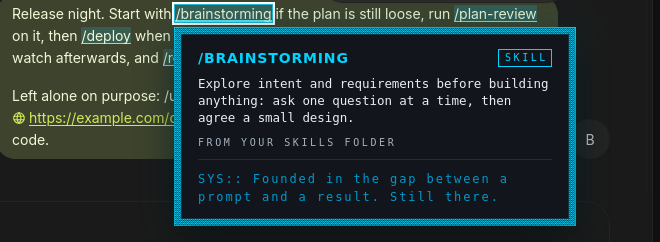
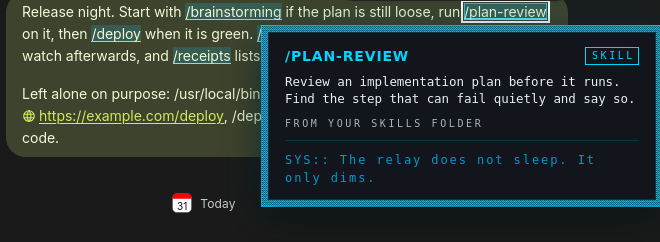
Agent Skills Highlighter: review round 1, the rest: Esc only with the focus on the skill, a card whose skill is removed closes, a skill is a button, square Settings corners, non-ASCII letters before the slash, the speed claim, new screenshots
- Esc is kept only when the focus is on the skill (or in the card); a card the pointer opened while the focus is elsewhere (the composer in Vim's INSERT) is closed and the key goes on to the app and to Vim.
- A card whose skill is unmounted (an edited or deleted message) closed never: a timer that runs only while a card is open now looks for it.
- A skill is role=button with aria-expanded and a hint, so a screen reader says it can be activated.
- The Settings card's input and buttons have square corners like the rest.
- A letter, number or mark of any script before the slash (é/deploy, 日本/deploy) is a word, not a start.
- The README's speed claim says what the three pairs of runs show: within the run-to-run noise, with the tail numbers; reduced motion in the real app is said to be impossible on a bare display.
- The screenshots and the recording are taken again from the build as pushed (the glitch is inset now; the Settings card is square).

Changed region(s): [[0.0, 0.0, 1.0, 0.9545]]

diff --git a/plugins/agent-skills-highlighter/plugin.js b/plugins/agent-skills-highlighter/plugin.js
@@ -6,8 +6,9 @@
 // ---- Detection ---------------------------------------------------------------------------------------------------------------
 
 const SKILL_START = /\/([A-Za-z0-9][A-Za-z0-9._:-]*)/g;
-// A `/` that follows one of these is part of a path, a URL, a host name or a word, not the start of a skill.
-const BEFORE_BLOCKS = /[A-Za-z0-9_/\\.:~@#$%&=+-]/;
+// A `/` that follows one of these is part of a path, a URL, a host name or a word, not the start of a skill: an ASCII path or word mark, or a
+// letter, a number or a combining mark of any script (`é/deploy`, `日本/deploy`).
+const BEFORE_BLOCKS = /[A-Za-z0-9_/\\.:~@#$%&=+-]|[\p{L}\p{N}\p{M}]/u;
 // What may follow a skill: the end, a space, or closing punctuation. Never `/`, a letter or a digit, `-`, `_`, `.ext`.
 const AFTER_ALLOWED = /[\s,;!?)\]}'"…”’»—]/;
 
@@ -18,7 +19,7 @@ export function findSkills(text, known) {
   SKILL_START.lastIndex = 0;
   for (let match; (match = SKILL_START.exec(text)); ) {
     const start = match.index;
-    if (start > 0 && BEFORE_BLOCKS.test(text[start - 1])) continue;
+    if (start > 0 && BEFORE_BLOCKS.test([...text.slice(Math.max(0, start - 2), start)].at(-1))) continue; // the code point before, whole
     const next = text[start + match[0].length];
     if (next !== undefined && !AFTER_ALLOWED.test(next)) continue;
     const name = match[1].replace(/[.:]+$/, "");
@@ -345,10 +346,10 @@ export const CSS = `
 .megatech-skills-set__status{padding:10px 12px;border:1px solid var(--border-standard,#2a3a42);border-left:3px solid var(--megatech-skills-edge);font:400 13px/1.45 var(--font-sans,ui-sans-serif,system-ui,sans-serif);color:var(--text-standard,inherit)}
 .megatech-skills-set__status[data-state="error"]{border-left-color:#c2362b}
 .megatech-skills-set__row{display:flex;gap:8px;align-items:center;flex-wrap:wrap}
-.megatech-skills-set__input{flex:1 1 260px;min-width:0;padding:8px 10px;border:1px solid var(--border-standard,#2a3a42);border-radius:3px;background:transparent;color:inherit;font:13px/1.3 ui-monospace,SFMono-Regular,Menlo,Consolas,monospace}
+.megatech-skills-set__input{flex:1 1 260px;min-width:0;padding:8px 10px;border:1px solid var(--border-standard,#2a3a42);border-radius:0;background:transparent;color:inherit;font:13px/1.3 ui-monospace,SFMono-Regular,Menlo,Consolas,monospace}
 .megatech-skills-set__input:focus{outline:none;border-color:var(--megatech-skills-edge);box-shadow:0 0 0 1px var(--megatech-skills-edge)}
 .megatech-skills-set__input[aria-invalid="true"]{border-color:#c2362b}
-.megatech-skills-set__btn{padding:8px 12px;border:1px solid var(--megatech-skills-edge);border-radius:3px;background:transparent;color:inherit;font:600 12px/1 var(--font-sans,ui-sans-serif,system-ui,sans-serif);cursor:pointer}
+.megatech-skills-set__btn{padding:8px 12px;border:1px solid var(--megatech-skills-edge);border-radius:0;background:transparent;color:inherit;font:600 12px/1 var(--font-sans,ui-sans-serif,system-ui,sans-serif);cursor:pointer}
 .megatech-skills-set__btn:focus-visible{outline:2px solid var(--border-focus,var(--megatech-skills-edge));outline-offset:2px}
 .megatech-skills-set__error{color:#c2362b}
 `;
@@ -357,6 +358,7 @@ export const CSS = `
 
 const OPEN_DELAY = 140;
 const CLOSE_DELAY = 110;
+const WATCH_EVERY = 200;
 
 /** The card is plain DOM on <body> (API v1 has no overlay service); text goes in with textContent only. */
 function createCard({ store, doc, win }) {
@@ -364,6 +366,7 @@ function createCard({ store, doc, win }) {
   let anchor;
   let openTimer;
   let closeTimer;
+  let watchTimer;
   let counter = 0;
   const id = `megatech-skills-card-${Math.random().toString(36).slice(2, 8)}`;
 
@@ -405,9 +408,11 @@ function createCard({ store, doc, win }) {
   const close = () => {
     clearTimeout(openTimer);
     clearTimeout(closeTimer);
+    clearInterval(watchTimer);
     if (anchor) {
       anchor.removeAttribute("data-skill-open");
       anchor.removeAttribute("aria-describedby");
+      anchor.setAttribute("aria-expanded", "false");
     }
     anchor = undefined;
     if (card) card.hidden = true;
@@ -430,7 +435,11 @@ function createCard({ store, doc, win }) {
     card.style.animation = "";
     target.setAttribute("data-skill-open", "");
     target.setAttribute("aria-describedby", id);
+    target.setAttribute("aria-expanded", "true");
     position();
+    // A token that is unmounted while its card is open (an edited or deleted message under the pointer) never gets a `mouseleave`: look for it.
+    clearInterval(watchTimer);
+    watchTimer = setInterval(() => anchor && !anchor.isConnected && close(), WATCH_EVERY);
   };
   return {
     hover(target, name) {
@@ -450,6 +459,11 @@ function createCard({ store, doc, win }) {
     blur: () => close(),
     close,
     isOpen: () => !!anchor,
+    /** The focus is on the skill the card is open for, or inside the card. */
+    holdsFocus: () => {
+      const active = doc.activeElement;
+      return !!active && (active === anchor || !!card?.contains(active));
+    },
     dispose() {
       close();
       card?.remove();
@@ -478,9 +492,13 @@ export function apply(ctx) {
     document.head.append(style);
     const onKey = (event) => {
       if (event.key !== "Escape" || !card.isOpen()) return;
-      // Esc closes the card and goes no further: passed on, it would also close the thread (or whatever else Esc is for) behind it.
-      event.preventDefault();
-      event.stopImmediatePropagation();
+      // With the focus on the skill (or in the card) Esc closes the card and goes no further: passed on, it would also close the thread behind
+      // it. With the focus elsewhere (a card opened by the pointer while the composer is in Vim's INSERT) it is not ours: close the card and
+      // let the key through, so that the host and Vim still get it.
+      if (card.holdsFocus()) {
+        event.preventDefault();
+        event.stopImmediatePropagation();
+      }
       card.close();
     };
     const onScroll = () => card.isOpen() && card.close();
@@ -508,6 +526,9 @@ export function apply(ctx) {
       {
         className: "megatech-skills__token",
         tabIndex: 0,
+        role: "button",
+        "aria-expanded": "false",
+        "aria-description": "Agent skill. Press Enter or Space to see what it is.",
         "data-skill": name,
         onMouseEnter: (event) => card.hover(event.currentTarget, name),
         onMouseLeave: () => card.leave(),

diff --git a/plugins/agent-skills-highlighter/README.md b/plugins/agent-skills-highlighter/README.md
@@ -28,7 +28,7 @@ Taken in the Buzz desktop app on Linux, with made-up skills (a skills folder, a 
 | Hover: the card (name, description, where from, a line of lore). The highlight is the dim tint with a dither; `/usr/local/bin/deploy`, `a/deploy`, the URL and `/deploy.md` are left alone | The same in light: the plate, text and border are Buzz's own |
 | ![Tab to /brainstorming: a focus ring and the card](screenshots/focus-dark.png) | ![Tab to /plan-review in light mode](screenshots/focus-light.png) |
 | Keyboard: Tab onto a skill opens its card, and the app's focus ring shows where you are | The same in light |
-| ![A thread: the card of a skill in a reply](screenshots/thread-dark.png) | ![Settings, Agent skills: 9 names found, one from the extra folder](screenshots/settings.png) |
+| ![A thread: the card of a skill in a reply](screenshots/thread-dark.png) | ![Settings, Agent skills: 10 names found, one from the extra folder](screenshots/settings.png) |
 | In a thread; a skill that wraps across two lines is highlighted on both | Settings, **Agent Skills**: what was found and from where, and the extra folder |
 | ![The install review: Run sh, with its arguments](screenshots/install-review.png) | ![The decloak on hover, then Tab through two skills](screenshots/hover.gif) |
 | The review the app shows before it installs or updates the plugin lists the one program, `sh`, and its arguments (the script). (This is the update dialog, so the source folder, which is a path on the test machine, is hidden) | The hover decloak (a scan beam and a cyan and magenta split for 0.4 s), the card of a plugin's skill, then Tab |
@@ -38,15 +38,15 @@ Taken in the Buzz desktop app on Linux, with made-up skills (a skills folder, a 
 A `/name` is highlighted only when **all** of these hold:
 
 1. `name` is a skill the plugin found, spelled exactly (capitals count). A skill from a plugin is known as `plugin:skill` and, unless you have a skill of that name yourself, as `skill`.
-2. The `/` starts a word: the character before it is not a letter, digit, `_`, `/`, `\`, `.`, `:`, `~`, `@`, `#`, `$`, `%`, `&`, `=`, `+` or `-`. So paths, URLs, hosts and `and/or` are left alone.
+2. The `/` starts a word: the character before it is not a letter, a number or a combining mark of any script (`é/deploy` and `日本/deploy` are left alone), nor `_`, `/`, `\`, `.`, `:`, `~`, `@`, `#`, `$`, `%`, `&`, `=`, `+` or `-`. So paths, URLs, hosts and `and/or` are left alone.
 3. What follows the name is the end of the text, a space, or one of `, ; ! ? ) ] } ' " … ” ’ » —`. A trailing `.` or `:` is not part of the name (`run /deploy.` highlights `/deploy`). `/deploy/prod`, `/deploy.sh` and `/deploy-now` are not `/deploy`.
 4. The text is Markdown prose. Buzz does not offer code, inline code, links, images or HTML to a plugin, so `` `/deploy` `` and `[x](/deploy)` stay as they are.
 
-`test/detect.test.mjs` is the table: 23 texts that match and 39 that do not.
+`test/detect.test.mjs` is the table: 26 texts that match and 47 that do not.
 
 ## The card
 
-Hover a highlighted skill for a moment, or Tab to it (every highlight is a tab stop, like a link). The card shows the skill's **name**, its **description** from the skill file, **where it comes from** (your skills folder, the extra folder, or a plugin's name), and a line of lore that changes each time. The description shows up to **12 lines, about 575 characters** at the card's width (measured with a monospace face in the desktop app and in the browser build), and a longer one ends in an ellipsis (`…`) instead of being cut off. Real descriptions are shorter: eleven real `SKILL.md` files found on a machine that builds this plugin had descriptions of 44 to 439 characters, and all of them show whole.
+Hover a highlighted skill for a moment, or Tab to it (every highlight is a tab stop, like a link, and a button for a screen reader: `role="button"`, a hint that says to press Enter or Space, and `aria-expanded` for whether its card is open). The card shows the skill's **name**, its **description** from the skill file, **where it comes from** (your skills folder, the extra folder, or a plugin's name), and a line of lore that changes each time. The description shows up to **12 lines, about 575 characters** at the card's width (measured with a monospace face in the desktop app and in the browser build), and a longer one ends in an ellipsis (`…`) instead of being cut off. Real descriptions are shorter: eleven real `SKILL.md` files found on a machine that builds this plugin had descriptions of 44 to 439 characters, and all of them show whole.
 
 | Do this | What happens |
 | --- | --- |
@@ -54,9 +54,10 @@ Hover a highlighted skill for a moment, or Tab to it (every highlight is a tab s
 | Tab to it | The card opens at once |
 | Move the pointer off, onto the card | The card stays while the pointer is on the skill or the card |
 | Move the pointer off both | The card closes after a moment |
-| `Esc` | The card closes, and that is all it does: focus stays on the skill and a thread open behind it stays open (the next `Esc`, with no card, is the app's own again) |
+| `Esc` | With the focus on the skill, the card closes and that is all `Esc` does: focus stays on the skill and a thread open behind it stays open (the next `Esc`, with no card, is the app's own again). With the focus somewhere else (a card the pointer opened while you type in the composer), the card closes and the key goes on to the app and to Vim mode as usual |
 | `Enter` or `Space` on the skill | The card opens again |
 | Scroll, click elsewhere, Tab away, or leave the window | The card closes |
+| Its message is edited or deleted, so the skill leaves the page | The card closes within a fifth of a second (a removed skill never gets a mouse-out) |
 
 ## Where the skills come from
 
@@ -171,13 +172,17 @@ Cloaked at rest, charged on contact.
 
 Highlighting must not slow the message list, so it was measured: a channel of 2,400 messages, one in five holding two skills a few times over (a far denser mix than real talk), loaded and scrolled in Buzz's own browser build with the plugin off and on.
 
-| Same list, same machine, same run | Plugin off | Plugin on |
-| --- | --- | --- |
-| Time to load the whole history (335,000 px) | 36.2 s | 37.6 s |
-| Frame time while scrolling it, half a screen a frame: median | 31.3 ms | 31.7 ms |
-| Frame time, 95th percentile | 66.2 ms | 62.4 ms |
+Frame time while scrolling it, half a screen a frame (the middle value of three passes), plugin off then on, the same list on the same machine in the same run. Three pairs, from three runs on two machines (the second is one pass on another machine):
 
-That is the middle value of three passes each, on a 2-CPU machine where run-to-run noise is about ±10%: no measurable difference. A spec (`test/web/perf.spec.mjs`) asserts that the load time and the median and 95th-percentile frame times stay within a fifth, plus a small allowance, of the same list without the plugin. The frames are slow in both columns because the test machine is small and the rows are tall; the point is the pair.
+| Run | Median | 95th percentile | 99th percentile |
+| --- | --- | --- | --- |
+| First run, an earlier build | 31.3 → 31.7 ms (+1%) | 66.2 → 62.4 ms (−6%) | not recorded |
+| Second run, another machine | 22.0 → 22.8 ms (+4%) | 49.6 → 53.7 ms (+8%) | 75.4 → 92.8 ms (+23%) |
+| Third run, this build | 23.6 → 24.0 ms (+2%) | 46.7 → 54.3 ms (+16%) | 79.8 → 82.7 ms (+4%) |
+
+**This is within the run-to-run noise of the test, not a measured cost, and not a proof of none.** The median is 1 to 4% slower with the plugin on in all three pairs, which is less than the spread between the three passes inside one run (23, 24 and 27 ms in the last run's "off" half). The tails move more, both ways, and by less than that spread too (95th percentile of 46, 47 and 69 ms in the same passes). The 99th percentile is reported, not asserted: with 400 frames in a pass it is the fourth-worst frame. The times to load the history (28 to 38 s with the plugin off or on) are not in the table: the first run of a session loads far slower than the second (74 s against 31 s in the last pair), whichever of the two it is. The frames are slow in all rows because the test machine is small and the rows are tall; the point is the pair.
+
+A spec (`test/web/perf.spec.mjs`) asserts that the load time and the median and 95th-percentile frame times stay within a fifth, plus a small allowance, of the same list without the plugin. The stronger evidence is Vim mode's own key-latency suite, run on the same list with the plugin off and on, four runs in a row on one runner (Vim only, both, Vim only, both): the key rows' median and 99th percentile were within 3% of Vim mode alone and within the 3% the same variant drifted by, and its gate (99th percentile at most 50 ms) did not fail in any of 12 runs. That table is in the pull request.
 
 The matcher is checked on its own too: `node test/bench.mjs` (about 2 to 3 microseconds per message that holds a slash, against a set of 300 names). Messages with no `/` cost one `includes` call.
 
@@ -199,7 +204,7 @@ Not used, and why: wrapping the words in the host's DOM (React owns those text n
 
 ```sh
 # from a clone of this repository, with no package.json above the plugin's folder:
-node --test plugins/agent-skills-highlighter/test/*.test.mjs                   # 125 unit tests: detection, parsing, the store, the real script on made-up folders, the look
+node --test plugins/agent-skills-highlighter/test/*.test.mjs                   # 136 unit tests: detection, parsing, the store, the real script on made-up folders, the look
 node plugins/agent-skills-highlighter/test/bench.mjs                           # the matcher's speed
 plugins/agent-skills-highlighter/test/run.sh /path/to/block/buzz-app/checkout  # the browser tests, in Buzz's own web build
 SKILLS_PERF=1 plugins/agent-skills-highlighter/test/run.sh /path/to/block/buzz-app/checkout -g "2,400 messages|highlighter's cost"   # the speed comparison (minutes)
@@ -211,17 +216,17 @@ The browser tests run the production web build, a fixture relay and headless Chr
 
 Checked:
 
-- **Node tests (125):** detection (the table above), parsing a `SKILL.md` (plain, quoted, folded and literal values), the store and the settings, **the real program** run as the manifest declares it (`sh -c`) against made-up folders (what it prints, that it prints nothing else, the caps, quiet skips, names with spaces and `$(…)`, an extra folder that is not absolute, folders whose names have control characters, that every file it read is unchanged afterwards), the stylesheet against the design tokens (colours, where magenta may appear, that every shadow of the highlight is inset) and the guard that every workflow building the app names the same Buzz commit (`.github/check-app-ref.sh`, run on made-up workflows too), and the manifest against the limits the app applies when it installs a plugin (see `NOTES.md`).
-- **Browser tests (15)**, in Buzz's own production web build (commit `d92bfb2c` of block/buzz-app, headless Chromium): a skill is drawn in a channel, a thread and a DM, and a path, a URL, code and an unknown name are left alone; hover opens the card, mouse-out and the card itself; keyboard (tab stops, Esc); Esc with the card open closes the card and not the thread behind it; a long description is clamped with an ellipsis; the glitch stays inside the highlight; scrolling and clicking away; the text and its box do not move; reduced motion; contrast in both themes; the card's tokens (dark) and the host's plate and text (light), square corners; Settings (the extra folder, a failed read keeps the last list); reading again; disabling and enabling leaves nothing behind. The DM is checked in the browser build only: sending a message to a real person to see one was not worth it.
+- **Node tests (136):** detection (the table above), parsing a `SKILL.md` (plain, quoted, folded and literal values), the store and the settings, **the real program** run as the manifest declares it (`sh -c`) against made-up folders (what it prints, that it prints nothing else, the caps, quiet skips, names with spaces and `$(…)`, an extra folder that is not absolute, folders whose names have control characters, that every file it read is unchanged afterwards), the stylesheet against the design tokens (colours, where magenta may appear, that every shadow of the highlight is inset) and the guard that every workflow building the app names the same Buzz commit (`.github/check-app-ref.sh`, run on made-up workflows too), and the manifest against the limits the app applies when it installs a plugin (see `NOTES.md`).
+- **Browser tests (18)**, in Buzz's own production web build (commit `d92bfb2c` of block/buzz-app, headless Chromium): a skill is drawn in a channel, a thread and a DM, and a path, a URL, code and an unknown name are left alone; hover opens the card, mouse-out and the card itself; keyboard (tab stops, Esc); Esc with the card open closes the card and not the thread behind it, but a card the pointer opened while the focus is elsewhere lets the key through; a long description is clamped with an ellipsis; the glitch stays inside the highlight; a card whose skill is removed closes by itself; a skill is a button (role, hint, `aria-expanded`); scrolling and clicking away; the text and its box do not move; reduced motion; contrast in both themes; the card's tokens (dark) and the host's plate and text (light), square corners, in the Settings card too; Settings (the extra folder, a failed read keeps the last list); reading again; disabling and enabling leaves nothing behind. The DM is checked in the browser build only: sending a message to a real person to see one was not worth it.
 - **Speed** (above), in the browser build.
-- **The installed Buzz 1.0 desktop app on Linux** (`0.0.0-preview.156.1`, WebKitGTK): the plugin is installed from this folder (the review lists `sh` and its arguments); the real `sh -c` reads a made-up Claude config folder (set with `CLAUDE_CONFIG_DIR`: four skills, a made-up plugin install with two skills, and an extra folder entered in Settings); the skills are highlighted in a channel and in a thread; a path, a URL, a file name, code and an unknown name are not; the card opens on hover and on Tab, and closes on Esc, in dark and in light; Settings says what was found; and with Vim mode on, `j` and `k` still move its cursor while a skill has the focus. The screenshots above are from it.
+- **The installed Buzz 1.0 desktop app on Linux** (`0.0.0-preview.156.1`, WebKitGTK): the plugin is installed from this folder (the review lists `sh` and its arguments); the real `sh -c` reads a made-up Claude config folder (set with `CLAUDE_CONFIG_DIR`: four skills, a made-up plugin install with two skills, and an extra folder entered in Settings); the skills are highlighted in a channel and in a thread; a path, a URL, a file name, code and an unknown name are not; the card opens on hover and on Tab, and closes on Esc, in dark and in light; Settings says what was found; with Vim mode on, `j` and `k` still move its cursor while a skill has the focus; with Vim mode on in the thread pane, `Esc` closes the card (opened by hover or by a click) and nothing else, a second `Esc` closes the thread; typing in the composer (INSERT) with a card the pointer opened, `Esc` closes the card and Vim still goes to NORMAL; a 999-character description is clamped to 12 lines and ends in an ellipsis; a skills folder named like a forged header line is not listed. The screenshots above are from it (the build as pushed).
 
 Not checked:
 
 - **macOS and Windows.** The plugin runs on whichever web view Buzz uses; the shell script uses only `sh`, `read`, `printf`, `grep`, `sed`, `head` and `awk`, and has been run here only with Linux's (dash, GNU grep, sed and awk).
 - **A real Claude Code plugin install.** The folder layout read from `installed_plugins.json` is the one Claude Code's documentation and binary describe (V1 and V2 files, `installPath`, `skills/<name>/SKILL.md`, `.claude-plugin/plugin.json`). The tests and the real-app check build that layout; they cannot show that a real install has the same files.
 - **The Chakra Petch and Share Tech Mono faces.** The card was looked at with the system faces only.
-- **Reduced motion and a DM in the real app.** Both are covered by the browser tests only.
+- **Reduced motion and a DM in the real app.** Both are covered by the browser tests only. A DM would have meant messaging a person. Reduced motion cannot be switched on in the Linux app on a bare display: its web view ignores the GTK animations-off setting (switching it off changed none of the 17 distinct frames of the decloak that were captured), so nobody should expect to see it there.
 
 ## License
 

diff --git a/plugins/agent-skills-highlighter/NOTES.md b/plugins/agent-skills-highlighter/NOTES.md
@@ -12,12 +12,16 @@ What worked through Buzz's plugin API, what needed more, what was measured, and 
 - `matches` is synchronous and `registerInline` returns no disposer. The set of known skills is read asynchronously, so a changed set of names is registered again in a child scope (`ctx.plugin(...)`, ended before the next one starts, with a new contribution id each time). Ending a scope is asynchronous and the host refuses the same id twice.
 - The docs call the service "a host-matched preview, not a stable cross-version SDK". If it changes, the plugin shows plain text, as without it; it does not break the message.
 
+Detection looks at the code point before the slash, whole, against ASCII path marks and `\p{L}\p{N}\p{M}` (`é/deploy`, `日本/deploy` and a letter outside the first plane are words, not a start): a first version tested one UTF-16 unit against ASCII letters only.
+
 What we render is the host's own text in a `<span>` we own: `tabIndex=0` makes a real tab stop and gives real focus events, and we have the full CSS of the span. Nothing of the host's markup is touched.
 
 ## What needed the DOM
 
 - **The card.** Buzz has no overlay or tooltip service for plugins (API v1), so the card is one element appended to `<body>`, written with `textContent` only, `role="tooltip"`, `aria-describedby` on the open skill. Everything the plugin adds outside React is made inside `ctx.effect` and removed in its cleanup: one `<style>`, the card, four listeners (`keydown`, `scroll`, `pointerdown`, `blur`) and the focus listener of the re-read. A test disables and enables the plugin and checks that nothing is left.
-- **Esc.** The app's own Esc closes the thread, so with the card open a bare Esc closed both. The `keydown` listener is on the window in the capture phase and, only while the card is open, calls `preventDefault()` and `stopImmediatePropagation()` before the app sees the key: Esc closes the card and nothing else, and the next Esc (no card) is the app's again. Checked in the browser build (the test fails without it) and in the desktop app with Vim mode on, in the thread pane: Esc closed the card, the thread and the mode stayed, a second Esc closed the thread.
+- **Esc.** The app's own Esc closes the thread, so with the card open a bare Esc closed both. The `keydown` listener is on the window in the capture phase and, when the card is open **and the focus is on its skill or inside the card**, calls `preventDefault()` and `stopImmediatePropagation()` before the app sees the key: Esc closes the card and nothing else, and the next Esc (no card) is the app's again. When the card was opened by the pointer and the focus is elsewhere (typing in the composer, Vim in INSERT), the card is closed and the key goes on, so the app and Vim still get their Esc. Checked in the browser build (a counter on the page shows whether the key arrives; the tests fail without either half) and in the desktop app with Vim mode on, in the thread pane: Esc closed the card, the thread and the mode stayed, a second Esc closed the thread.
+- **A card whose skill is unmounted.** An edited or deleted message removes the skill's node without a `mouseleave`, which would leave the card up for good. While a card is open a 200 ms timer looks at `anchor.isConnected` and closes it; the timer exists only while a card is open.
+- **A skill is a button.** `role="button"`, `aria-expanded` (kept in step with the card by hand, like `aria-describedby`, since the token is a stateless component) and an `aria-description` that says to press Enter or Space. The accessible name is the message's own text; no text is added to the DOM, so the words still match the message.
 - **The glitch is inset.** The first decloak drew its cyan and magenta split with outside `box-shadow`s, which land on the neighbouring words (a cyan band over the `(` in `see(/brainstorming)`). Every shadow of the highlight is now inset, so the split sits inside the highlight and behind its own first and last letters, and a test holds nine frames and compares the words either side with the words at rest. Behind letters it has to stay a translucent band, or the words fall under 4.5:1 (solid magenta under the ink is 2.7:1): 14% in dark, 12% in light, with the light highlight's own tint lowered a little (hot 0.30 to 0.26, dither 0.28 to 0.20) so the worst frame stays at 4.7:1 in both themes.
 - **Long descriptions** are clamped to 12 lines (`-webkit-line-clamp`, which both Chromium and WebKitGTK draw with a real ellipsis), about 575 characters at the card's width. The first card cut at `max-height:12em`, about 340 characters, mid-line and with no sign. Eleven real `SKILL.md` files found on the build machine (the Chrome DevTools and Playwright skills) had descriptions of 44 to 439 characters.
 - **The stylesheet** is one `<style>` element: there is no style service. Every class and variable is named for the plugin.
